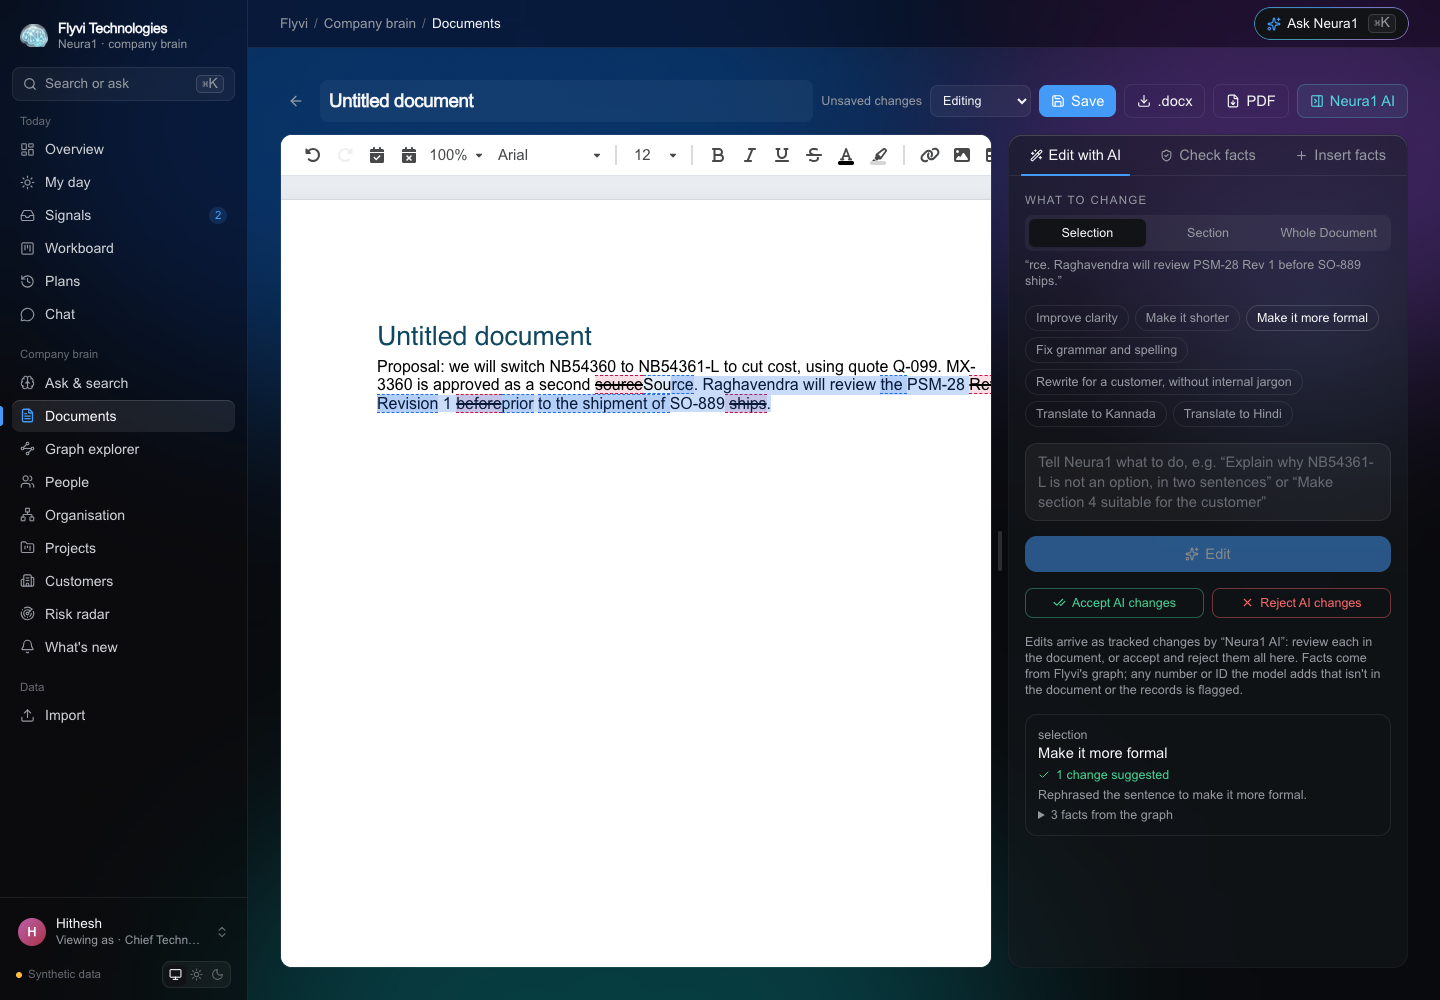
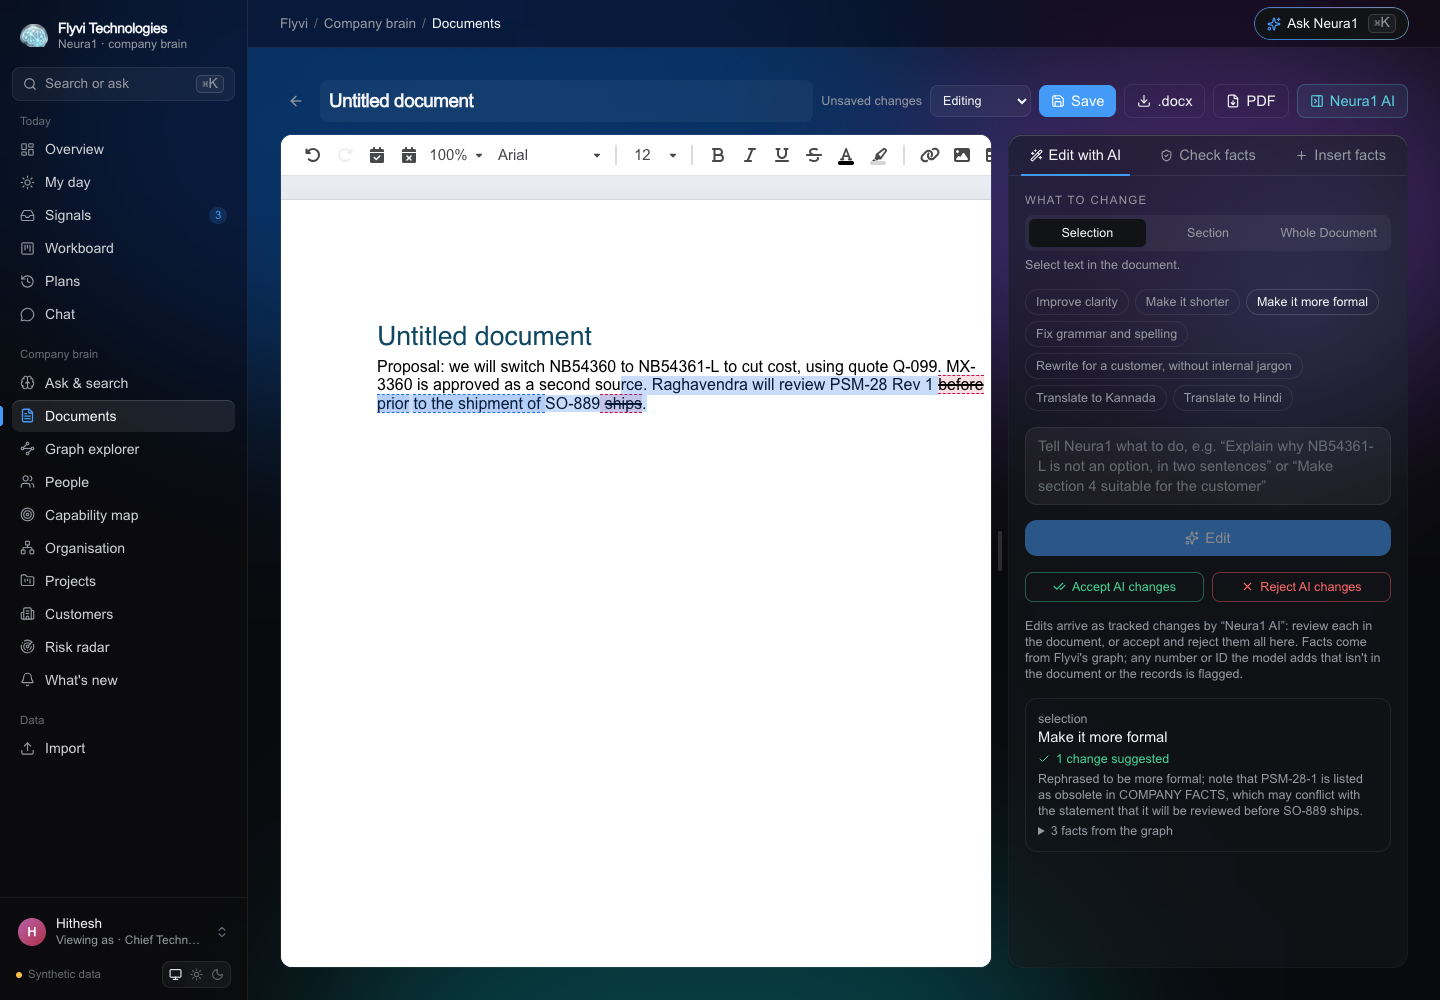
AI edit screenshot from the DGX model (15 s, minimal tracked change, flags the obsolete revision)

diff --git a/README.md b/README.md
@@ -87,7 +87,7 @@ Neura1 answers in one view:
   </tr>
   <tr>
     <td><img src="docs/demo/docs-fact-check.png" alt="Fact check"><br><sub><b>Neura1 Docs, check facts</b>: a draft proposes the rejected NB54361-L, an expired quote, an unapproved part and an obsolete revision. Each is caught by rules over the graph, with the Slack and Jira proof.</sub></td>
-    <td><img src="docs/demo/docs-ai-edit.png" alt="AI edit"><br><sub><b>Edit with AI</b>: the local model rewrites the selected sentence; the change arrives as a tracked change by "Neura1 AI" to accept or reject.</sub></td>
+    <td><img src="docs/demo/docs-ai-edit.png" alt="AI edit"><br><sub><b>Edit with AI</b>: the DGX model rewrites the selected sentence in 15 s as a tracked change by "Neura1 AI", and notes from the graph that PSM-28 Rev 1 is obsolete.</sub></td>
   </tr>
   <tr>
     <td><img src="docs/demo/docs-change-notice.png" alt="Change notice"><br><sub><b>Change notice from the graph</b>: affected products, builds, orders, cost, rejected alternates and required reviews, written by code into a real Word document.</sub></td>
